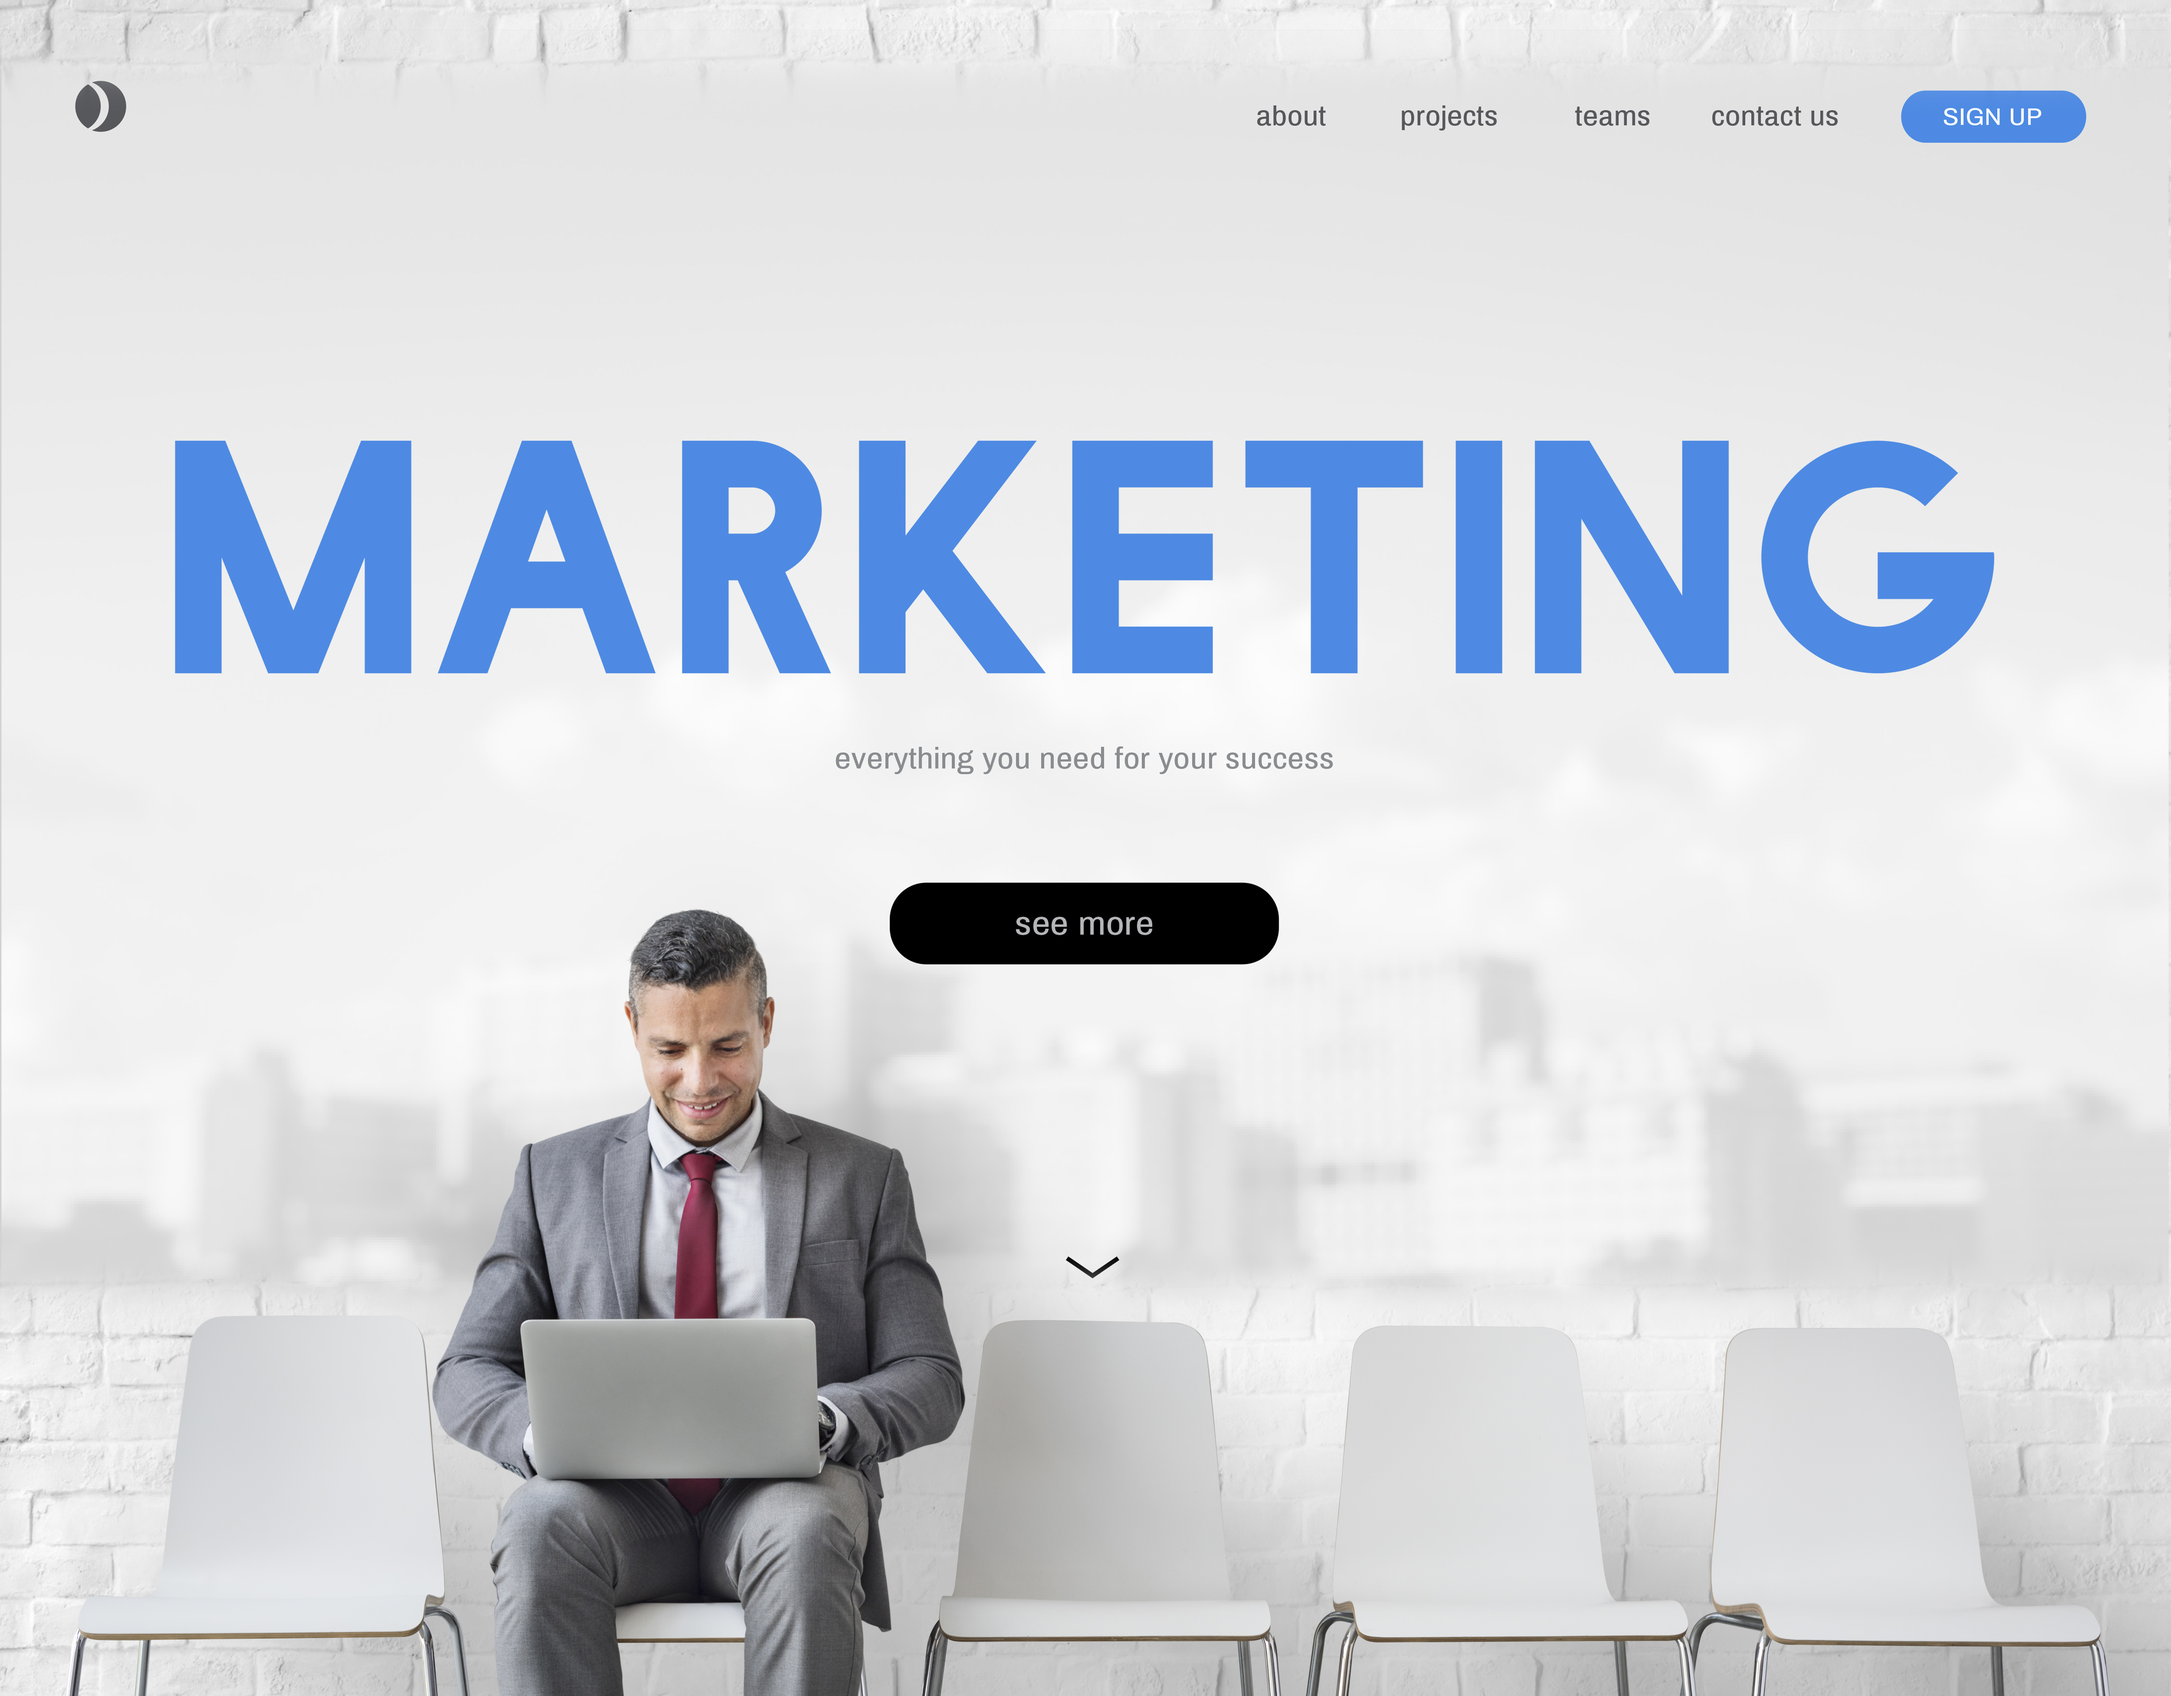
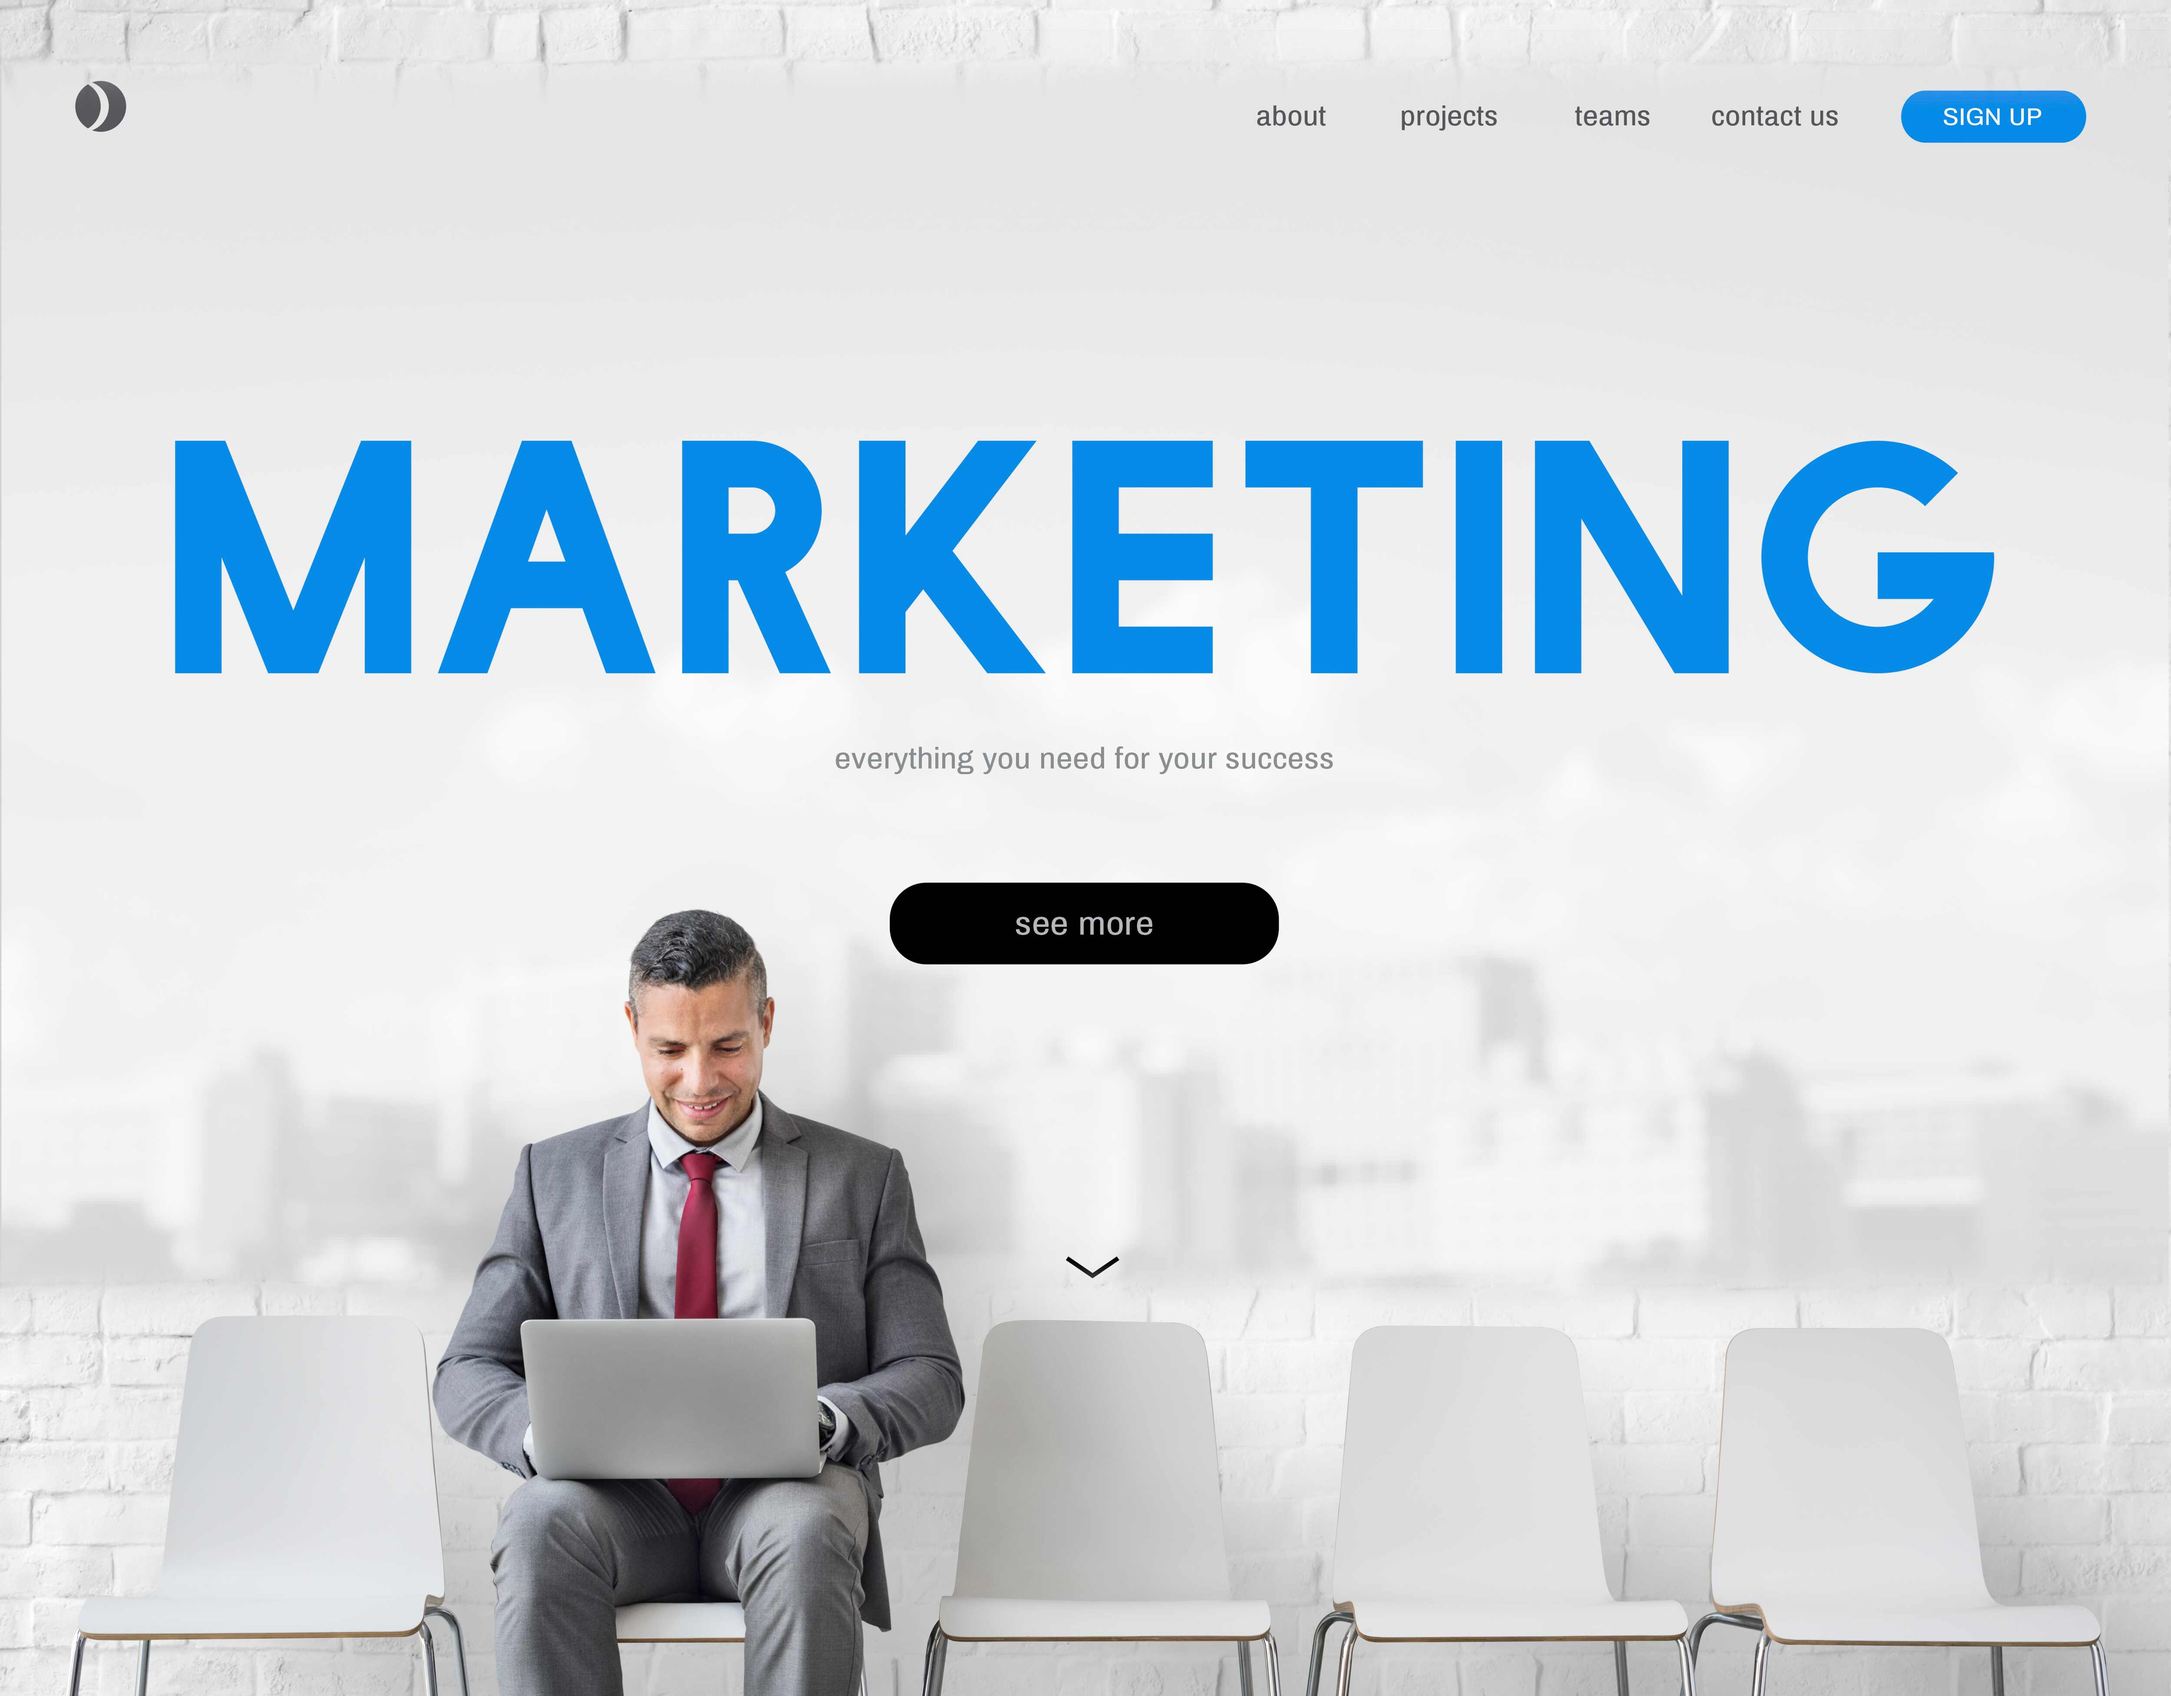
footer  update /salik

Changed region(s): [[0.0624, 0.2498, 0.936, 0.4059], [0.8736, 0.0312, 0.9672, 0.0937]]

diff --git a/bytechsol new/index.html b/bytechsol new/index.html
@@ -2,58 +2,83 @@
 <html lang="en">
   <head>
     <meta charset="UTF-8" />
-    <meta name="viewport" content="width=device-width, initial-scale=1.0" />
+    <meta
+      name="viewport"
+      content="width=device-width, initial-scale=1.0"
+    />
     <title>Bytechsol</title>
 
-    <!-- Meta Tags for SEO -->
-    <meta name="description" content="Bytechsol is a full-service software agency offering web development, AI/ML solutions, ERP implementation, and digital marketing." />
-    <meta name="keywords" content="software development, web development, AI solutions, ERP, Odoo, digital marketing, SaaS, React development" />
+    <!-- SEO Meta Tags -->
+    <meta
+      name="description"
+      content="Bytechsol is a full-service software agency offering web development, AI/ML solutions, ERP implementation, and digital marketing."
+    />
+    <meta
+      name="keywords"
+      content="software development, web development, AI solutions, ERP, Odoo, digital marketing, SaaS, React development"
+    />
     <meta name="author" content="Bytechsol" />
 
-    <!-- Open Graph Meta Tags (for social media sharing) -->
+    <!-- Open Graph Meta Tags -->
     <meta property="og:title" content="Bytechsol - Your Trusted Technology Partner" />
     <meta property="og:description" content="Bytechsol is a full-service software agency offering web development, AI/ML solutions, ERP implementation, and digital marketing." />
     <meta property="og:image" content="/favicon.png" />
     <meta property="og:url" content="https://www.bytechsol.com" />
     <meta property="og:type" content="website" />
 
-    <!-- Twitter Card Meta Tags (for Twitter sharing) -->
+    <!-- Twitter Card -->
     <meta name="twitter:title" content="Bytechsol - Your Trusted Technology Partner" />
     <meta name="twitter:description" content="Bytechsol is a full-service software agency offering web development, AI/ML solutions, ERP implementation, and digital marketing." />
     <meta name="twitter:image" content="/favicon.png" />
     <meta name="twitter:card" content="summary_large_image" />
 
-    <!-- Link to Stylesheets -->
+    <!-- Preconnect for faster CDN loading -->
+    <link rel="preconnect" href="https://cdn.jsdelivr.net" crossorigin />
+    <link rel="preconnect" href="https://cdnjs.cloudflare.com" crossorigin />
+
+    <!-- Preload Fonts -->
+    <link rel="preload" href="/Fonts/Guminert-Medium.woff2" as="font" type="font/woff2" crossorigin />
+    <link rel="preload" href="/Fonts/Guminert-Bold.woff2" as="font" type="font/woff2" crossorigin />
+
+    <!-- Bootstrap CSS -->
+    <link
+      rel="stylesheet"
+      href="https://cdn.jsdelivr.net/npm/bootstrap@5.3.2/dist/css/bootstrap.min.css"
+    />
+
+    <!-- Font Awesome -->
     <link
       rel="stylesheet"
       href="https://cdnjs.cloudflare.com/ajax/libs/font-awesome/6.6.0/css/all.min.css"
-      integrity="sha512-KM9K7H9+QfNPGsV1y1gZgBf0v5KMLzqFEN0O7vudfzUPd6aGZsB2hPpo3kN3GqfY6nAp6U7GdM6MZjVsoZqK3Q=="
       crossorigin="anonymous"
       referrerpolicy="no-referrer"
     />
+
+    <!-- Bootstrap Icons -->
     <link
-      href="https://cdn.jsdelivr.net/npm/bootstrap@5.3.2/dist/css/bootstrap.min.css"
       rel="stylesheet"
-    />
-    <link
       href="https://cdn.jsdelivr.net/npm/bootstrap-icons@1.10.5/font/bootstrap-icons.css"
-      rel="stylesheet"
     />
-    <link rel="icon" href="/favicon.png" type="image/png">
 
-    <!-- Add any additional custom stylesheets here -->
-    <link rel="stylesheet" href="/path/to/your/custom/styles.css">
+    <!-- Favicon -->
+    <link rel="icon" href="/favicon.png" type="image/png" />
 
-    <!-- Ensure correct handling of React Router in SPA deployments -->
+    <!-- Canonical URL -->
     <link rel="canonical" href="https://www.bytechsol.com" />
+
+    <!-- Custom CSS -->
+    <link rel="stylesheet" href="/path/to/your/custom/styles.css" />
   </head>
   <body>
     <div id="root"></div>
 
-    <!-- Main JS File -->
+    <!-- React main bundle -->
     <script type="module" src="/src/main.tsx"></script>
 
-    <!-- Bootstrap Bundle JS -->
-    <script src="https://cdn.jsdelivr.net/npm/bootstrap@5.3.2/dist/js/bootstrap.bundle.min.js"></script>
+    <!-- Bootstrap JS -->
+    <script
+      defer
+      src="https://cdn.jsdelivr.net/npm/bootstrap@5.3.2/dist/js/bootstrap.bundle.min.js"
+    ></script>
   </body>
 </html>

diff --git a/bytechsol new/src/components/home.tsx b/bytechsol new/src/components/home.tsx
@@ -20,7 +20,7 @@ import icon from "../assets/images/tick.svg";
 import Testimonial from "../shareable/testimonial";
 import FaqSection from "../shareable/faq";
 import ContactSection from "../shareable/contact";
-import wb2 from "../assets/images/web1img.png"
+import wb2 from "../assets/images/web1img.jpg"
 import bd2 from "../assets/images/brandim.jpg";
 import p3 from "../assets/images/ppg3.png";
 import a2 from "../assets/images/awar2.png";
@@ -98,13 +98,6 @@ const Home: React.FC = () => {
                           <br />
                           Founder & CEO @BTS
                           <br />
-                          <a
-                            // href="https://www.linkedin.com/in/yasir-irfan-b988721b7/"
-                            target="_blank"
-                            rel="noreferrer"
-                          >
-                            
-                          </a>
                         </div>
                       </div>
                       <div
@@ -121,13 +114,6 @@ const Home: React.FC = () => {
                           <br />
                           Co-Founder of BTS
                           <br />
-                          <a
-                            // href="https://www.linkedin.com/in/salik-husnaq/?originalSubdomain=pk"
-                            target="_blank"
-                            rel="noreferrer"
-                          >
-                            
-                          </a>
                         </div>
                       </div>
                     </div>

diff --git a/bytechsol new/src/shareable/Footer.tsx b/bytechsol new/src/shareable/Footer.tsx
@@ -26,9 +26,7 @@ const Footer: React.FC = () => {
         />
         </Link>
         <p className="footer-description">
-          Wavespace is a global UI/UX design agency that boosts brand value
-          with user-friendly, effective designs for web, mobile, and SaaS
-          platforms.
+Bytechsol is a full-service software agency offering web development, AI/ML solutions, ERP implementation, and digital marketing.
         </p>
 
         <Link className="deck-button" to="/contact">

diff --git a/bytechsol new/src/App.css b/bytechsol new/src/App.css
@@ -3,12 +3,14 @@
   src: url("/Fonts/Guminert Bold.ttf") format("truetype");
   font-weight: bold;
   font-style: normal;
+  font-display: swap;
 }
 @font-face {
   font-family: "Guminert";
   src: url("/Fonts/Guminert Medium.ttf") format("truetype");
   font-weight: normal;
   font-style: normal;
+  font-display: swap;
 }
 /* toggle button  */
 .navbar-toggler {

diff --git a/bytechsol new/src/assets/components-css/Services.css b/bytechsol new/src/assets/components-css/Services.css
@@ -3,12 +3,14 @@
   src: url("/Fonts/Guminert Bold.ttf") format("truetype");
   font-weight: bold;
   font-style: normal;
+  font-display: swap;
 }
 @font-face {
   font-family: "Guminert";
   src: url("/Fonts/Guminert Medium.ttf") format("truetype");
   font-weight: normal;
   font-style: normal;
+  font-display: swap;
 }
 
 .dg-products-section {

diff --git a/bytechsol new/src/assets/components-css/Blog.css b/bytechsol new/src/assets/components-css/Blog.css
@@ -190,7 +190,7 @@
   .blog-grid {
     grid-template-columns: repeat(2, 1fr); 
 }
-
+}
 @media (max-width: 600px) {
   .blog-grid {
     grid-template-columns: 1fr; 
